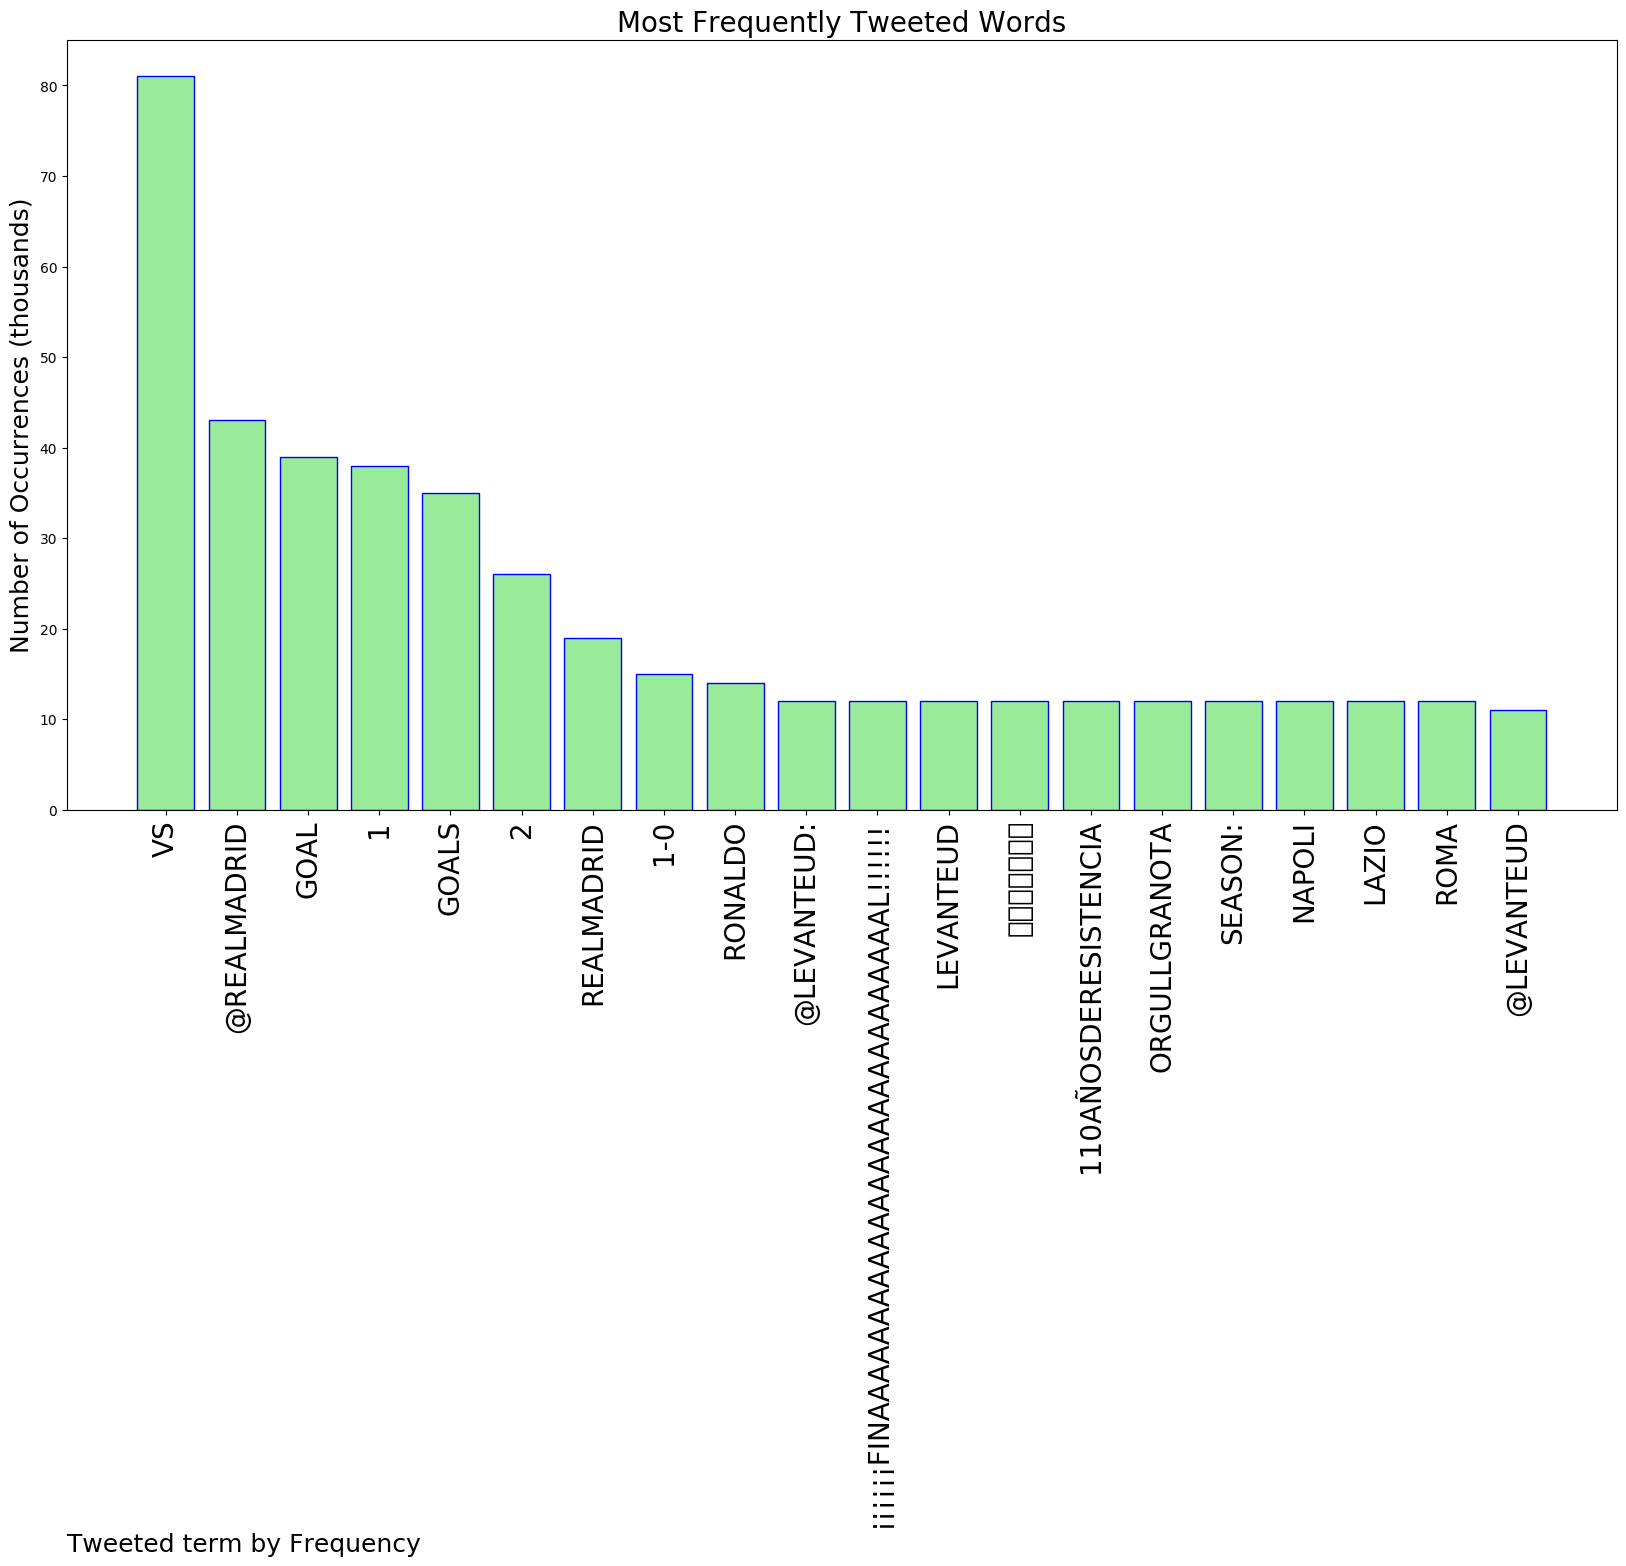
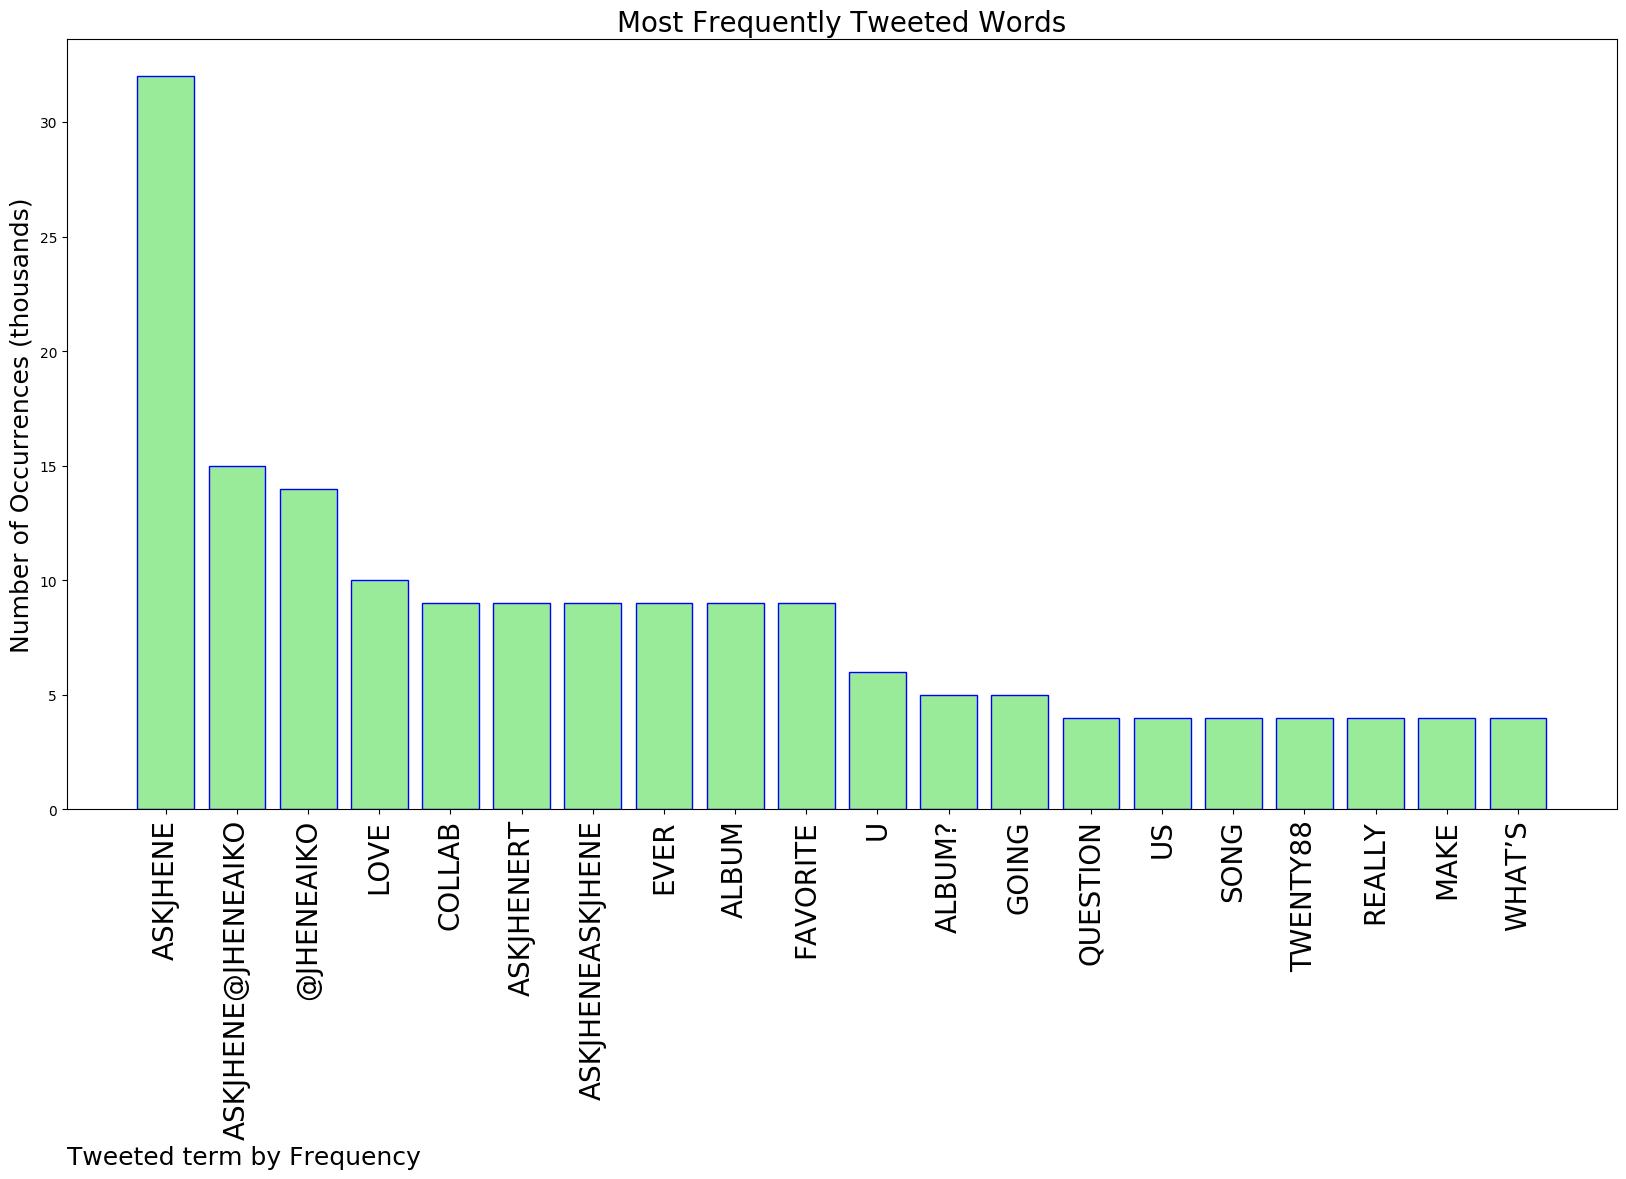
Updating with latest report

diff --git a/README.md b/README.md
@@ -1,5 +1,5 @@
 # MURCHIE85 TWITTER PROCESSING 
-&#x1F34E; **TOPIC = "realmadrid"**
+&#x1F34E; **TOPIC = "#AskJhene"**
 
 ## AUTOMATED RESEARCH SUMMARY
 
@@ -15,24 +15,18 @@
 
 |                **Sample-Tweets**        |
 | :-------------: |
-| <div class="alert alert-block alert-warning">RT @FOXSportsAsia: With @Cristiano marking his 1000th senior football appearance on Saturday, let's take a quick look at his top 10 goals!…</div> <div class="alert alert-block alert-success">@_JLDT_ @realmadrid Why? Why ? Vraiment ! Why? Tchr</div> <div class="alert alert-block alert-info">I can't even sleep well all cos of Realmadrid. Ah</div> |
-The most popular user is: **GARYPAG30534930**
-<div class="alert alert-block alert-danger"> RT @LevanteUD: ¡¡¡¡¡¡FINAAAAAAAAAAAAAAAAAAAAAAAAAAAL!!!!!!
-
-#LevanteUD 1-0 @realmadrid 
-
-🎉🎉🎉🎉🎉🎉🎉
-
-#110AñosDeResistencia #OrgullGranota http…</div>
+| <div class="alert alert-block alert-warning">what's your favorite ariana album? #AskJhene https://t.co/a43nv1HhHZ</div> <div class="alert alert-block alert-success">RT @JheneAiko: let's chat #AskJhene ✨</div> <div class="alert alert-block alert-info">will twenty88 ever be released😭  #AskJhene</div> |
+The most popular user is: **Un_DefinedSoul**
+<div class="alert alert-block alert-danger"> RT @JheneAiko: let's chat #AskJhene ✨</div>
 
 ## RELATED METRICS<br>
 | Metric | Value |
 | ------------- | ------------- |
-| #1 Most tweeted to  | **realmadrid** |
-| #2 Most tweeted to  | **LevanteUD** |
-| #3 Most tweeted to  | **DrTahha** |
-| NewProfiles (less than 10 days) | 1.0%  |
-| Tweeters with < 10 followers  | 6.0%|
+| #1 Most tweeted to  | **JheneAiko** |
+| #2 Most tweeted to  | **theresigoess** |
+| #3 Most tweeted to  | **Mayberrykush** |
+| NewProfiles (less than 10 days) | 2.0%  |
+| Tweeters with < 10 followers  | 3.0%|
 | Tweeters with > 1000000 followers  | 0.0%  |
 
 
@@ -42,34 +36,28 @@ The most popular user is: **GARYPAG30534930**
 
 | Popularity Rank  | Term |
 | ------------- | ------------- |
-| first  | **VS**  |
-| second  | **@REALMADRID**  |
-| third  | **GOAL** |
-| fourth  | **1**  |
-| fifth  | **GOALS**  |
+| first  | **ASKJHENE**  |
+| second  | **ASKJHENE@JHENEAIKO**  |
+| third  | **@JHENEAIKO** |
+| fourth  | **LOVE**  |
+| fifth  | **COLLAB**  |
 
 
 ## Twitter Bio Analysis![image](BIO.png)
 ### SENTIMENT ANALYSIS
 ![image](sentiment.png)
-VIEWS WERE : **SUBJECTIVE**  (13.33%) & **NEGATIVELY-SUBJECTIVE** (0.0%) **OBJECTIVE** (86.67%)
+VIEWS WERE : **SUBJECTIVE**  (26.67%) & **NEGATIVELY-SUBJECTIVE** (6.67%) **OBJECTIVE** (66.67%)
 
 ### TWEET SAMPLE 
 Random value picked from array: 
 
-<div class="alert alert-block alert-info">RT @FOXSportsAsia: With @Cristiano marking his 1000th senior football appearance on Saturday, let's take a quick look at his top 10 goals!…</div>
+<div class="alert alert-block alert-info">what's your favorite ariana album? #AskJhene https://t.co/a43nv1HhHZ</div>
 
 ### MOST RETWEETED 
 
-The most retweeted user is: **GARYPAG30534930**
+The most retweeted user is: **Un_DefinedSoul**
 
-<div class="alert alert-block alert-danger"> RT @LevanteUD: ¡¡¡¡¡¡FINAAAAAAAAAAAAAAAAAAAAAAAAAAAL!!!!!!
-
-#LevanteUD 1-0 @realmadrid 
-
-🎉🎉🎉🎉🎉🎉🎉
-
-#110AñosDeResistencia #OrgullGranota http…</div>
+<div class="alert alert-block alert-danger"> RT @JheneAiko: let's chat #AskJhene ✨</div>
 
 ### CONCLUSION & EXTERNAL ANALYSIS
 
